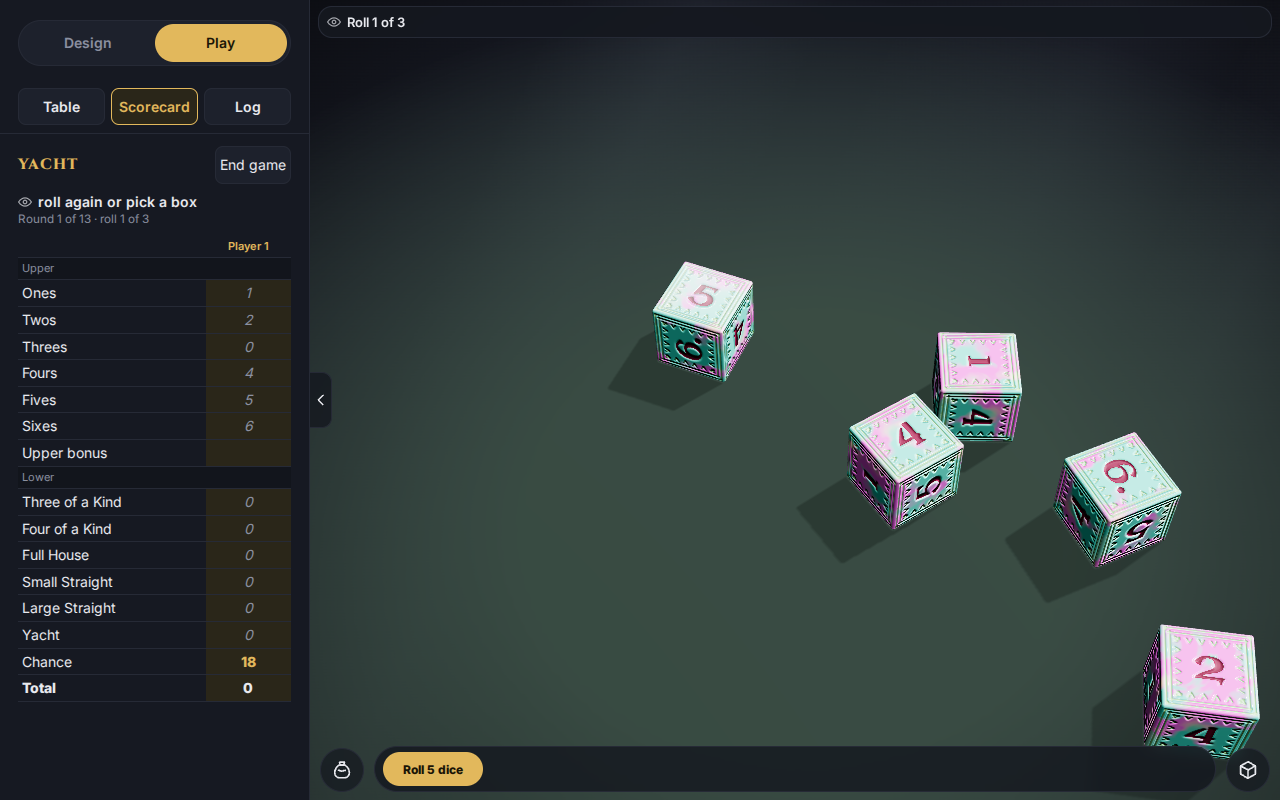
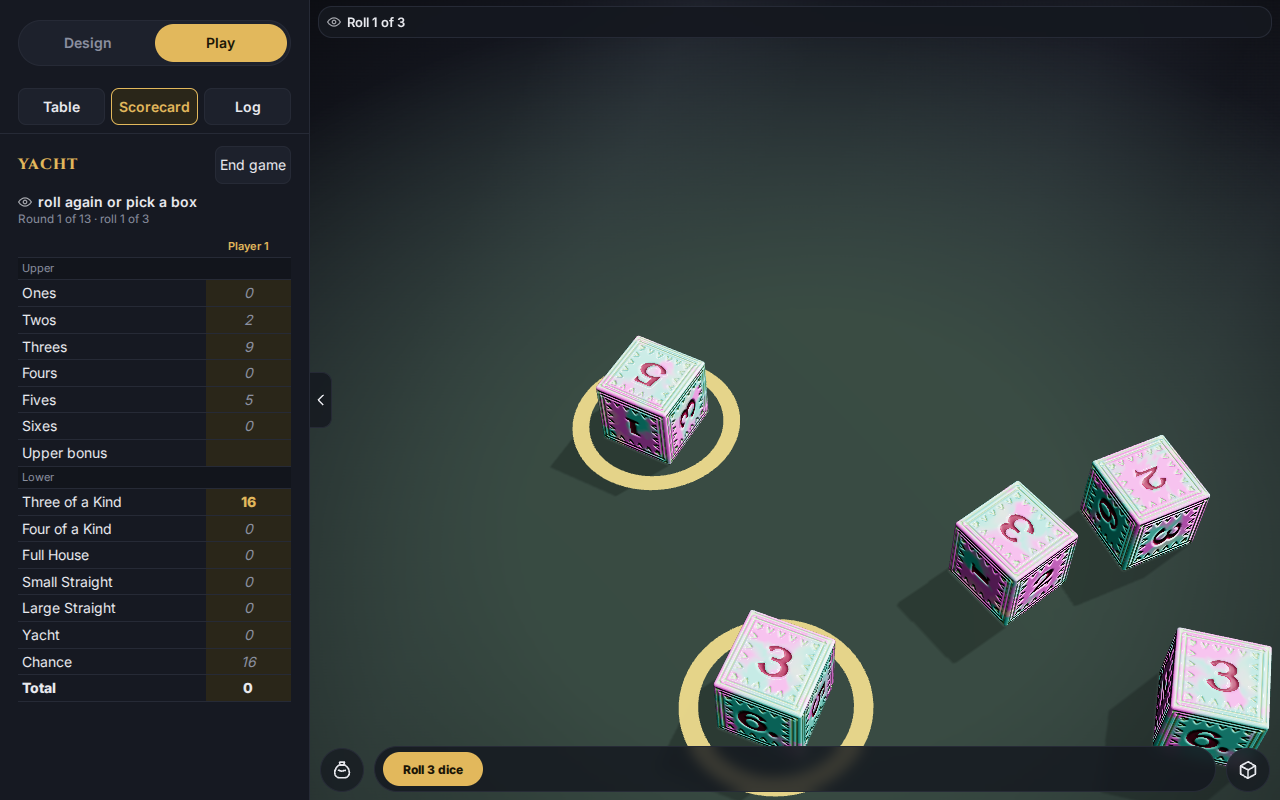
Guide shots: hold taps use projected die positions, result-table shot via quick roll, phone hold shot

diff --git a/docs/guide/05-rolling.md b/docs/guide/05-rolling.md
@@ -24,6 +24,8 @@ A group roll shows its results side by side with a breakdown per roll, and a nat
 
 Tap a settled die to **hold** it: a gold ring appears and it stays put when you roll again. Tap it again to let go. Games use this for Yacht-style turns. A held die that a re-roll bumps is lifted and turned back to its face. A pink ring marks a die that is leaning (cocked), and a small chip at the top right of the table says **⚠ Fix N leaning dice** (tap it to re-roll just those); a leaning die cannot be held until it settles flat. The chip for held dice reads **N held · release**.
 
+![On a phone: two held dice with gold rings, the dock reading Roll 3 dice](img/26-phone-hold.png)
+
 ## Change one die's design
 
 Press and hold a settled die for about half a second (or right-click it) to open a menu of the bag's designs. Pick one and just that die takes the new skin; its number and place stay and nothing is thrown. It only offers designs of the same die type. For layouts that cannot carry a per-die design (a group roll such as `4x d20`, kept or dropped dice such as `4d6kh3`, d% dice) the menu says **This layout cannot mix designs**. It is a shortcut: the **Sets** tab does the same job.

diff --git a/docs/guide/10-games.md b/docs/guide/10-games.md
@@ -21,7 +21,7 @@ Switch to the Play room and open the **Games** tab. Choose a **Game** (the game 
 1. Press the dock's **Roll** button (it reads **Roll** or, with dice held, **Roll 3 dice**). The dice are thrown and the scorecard fills with what each box would score: **italic** numbers are suggestions and the best one is **bold gold**.
 2. **Tap a settled die to hold it**; a gold ring shows. The dock button now says how many will be thrown, for example **Roll 3 dice**.
 
-![A Yacht turn on a desktop: the scorecard with suggestions beside the dice (tap a settled die to hold it)](img/19-yahtzee-hold.png)
+![Two dice held with gold rings, the scorecard showing suggestions](img/19-yahtzee-hold.png)
 
 3. Roll again (up to three throws), then tap a scorecard box to score it. After 13 rounds the game ends. **End game** quits early and returns you to the Games setup, still in the Play room. While a game runs, the Games tab becomes the **Scorecard** tab.
 
